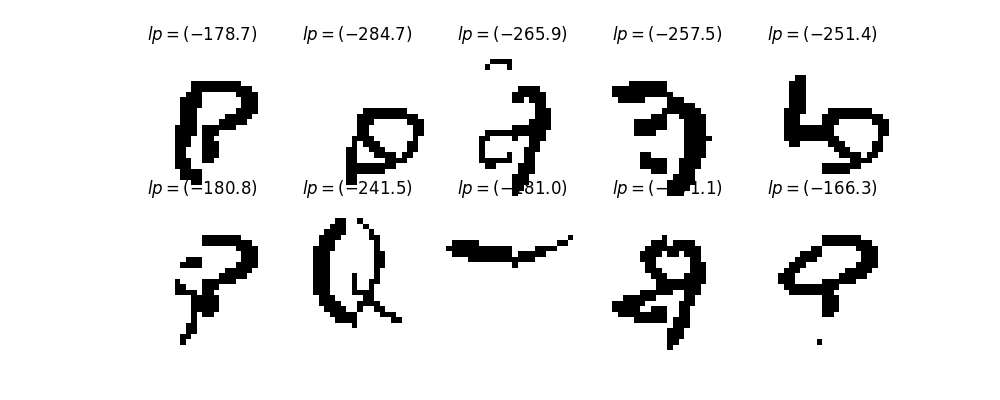
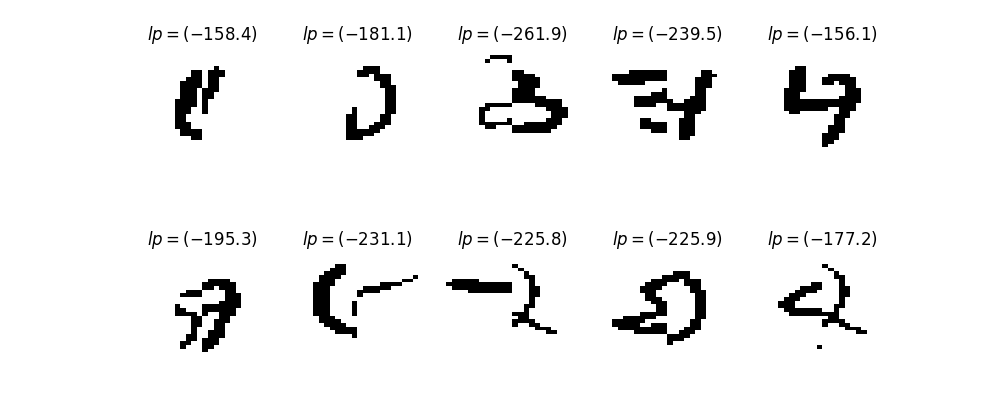
buggy vae

diff --git a/assignment_3/a3_vae_template.py b/assignment_3/a3_vae_template.py
@@ -1,5 +1,9 @@
 import numpy as np
 import tensorflow as tf
+import matplotlib
+
+matplotlib.use('agg')
+from matplotlib import pyplot as plt
 
 
 def load_mnist_images(binarize=True):
@@ -14,39 +18,156 @@ def load_mnist_images(binarize=True):
     x_train = mnist.train.images
     x_test = mnist.test.images
     if binarize:
-        x_train = (x_train>0.5).astype(x_train.dtype)
-        x_test = (x_test>0.5).astype(x_test.dtype)
+        x_train = (x_train > 0.5).astype(x_train.dtype)
+        x_test = (x_test > 0.5).astype(x_test.dtype)
     return x_train, x_test
 
 
+def plot(samples, save_path='figs/vae', fname=None, probs=None):
+    assert fname is not None
+
+    N = samples.shape[0]
+    _ensure_path_exists(save_path)
+
+    fig, axs = plt.subplots(2, N // 2, figsize=(2 * (N // 2), 2 * 2),
+                            gridspec_kw={'wspace': 0.0, 'hspace': 1.0})  # , squeeze=True)
+    axs = axs.ravel()
+
+    for i in range(N):
+        axs[i].imshow(samples[i], cmap='gray', aspect='auto')
+        axs[i].axis('off')
+
+        if probs is not None:
+            axs[i].set_title('$lp=({:.1f})$'.format(probs[i]))
+
+    # Store figure.
+    plt.show()
+    fig.savefig(save_path + '/{}.png'.format(fname))
+    # plt.tight_layout()
+    plt.close()
+
+
+def init_summary_writer(sess, save_path):
+    # Optional to use.
+    _ensure_path_exists(save_path)
+    return tf.summary.FileWriter(save_path, sess.graph)
+
+
+def _ensure_path_exists(path):
+    if not tf.gfile.Exists(path):
+        tf.gfile.MakeDirs(path)
+
+
 class VariationalAutoencoder(object):
+    def __init__(self, encoder_hidden_sizes, decoder_hidden_sizes, input_dim, z_dim, activation_fn, initializer):
+        self._encoder_hidden_sizes = encoder_hidden_sizes
+        self._decoder_hidden_sizes = decoder_hidden_sizes
+        self._activation_fn = activation_fn
+        self.kernel_initializer = initializer
+        self._input_dim = self._output_dim = input_dim
+        self._z_dim = z_dim
+
+    def Q(self, x):
+        """
+        Encodes data input x to hidden states
+        :param x: float tensor, [batch_size, input_dim]
+        :return: tuple of encoded variational params, (mu [batch_size, z_dim], sigma^2 [batch_size, z_dim])
+        """
+        with tf.variable_scope('encoder', reuse=tf.AUTO_REUSE):
+            for i, dim in enumerate(self._encoder_hidden_sizes):
+                x = tf.layers.dense(inputs=x, units=dim, activation=self._activation_fn,
+                                    kernel_initializer=self.kernel_initializer, name='enc_fc_{}'.format(i))
+
+            # Encode
+            mu = tf.layers.dense(inputs=x, units=self._z_dim, activation=tf.identity,
+                                 kernel_initializer=self.kernel_initializer, name='enc_mu')
+
+            # softplus activation: ensure positivity
+            var = tf.layers.dense(inputs=x, units=self._z_dim, activation=tf.exp,
+                                     kernel_initializer=self.kernel_initializer, name='enc_sigma')
+        return mu, var
+
+    def P(self, z):
+        """
+        Decodes the data given latent codes
+        :param z: latennt code, float tensor [batch_size, z_dim]
+        :return: log p(X=1|Z) [batch_size, input_dim]
+        """
+        with tf.variable_scope('decoder', reuse=tf.AUTO_REUSE):
+            for i, dim in enumerate(self._decoder_hidden_sizes):
+                z = tf.layers.dense(inputs=z, units=dim, activation=self._activation_fn,
+                                    kernel_initializer=self.kernel_initializer, name='dec_fc_{}'.format(i))
+
+            # Decode
+            log_p_x = tf.layers.dense(inputs=z, units=self._input_dim, activation=tf.log_sigmoid,
+                                      kernel_initializer=self.kernel_initializer, name='decoder')
+        return log_p_x
 
     def lower_bound(self, x):
         """
         :param x: A (n_samples, n_dim) array of data points
         :return: A (n_samples, ) array of the lower-bound on the log-probability of each data point
         """
-        raise NotImplementedError()
+        mu, var = self.Q(x)  # [batch_size, z_dim]
+        # logvar = tf.Print(logvar, [tf.identity(logvar)], 'logvar is =')
+        # var = tf.exp(1e-5 + logvar)
+        # sigma = tf.exp(logvar / 2)
+        sigma = tf.sqrt(var)
+        var = tf.Print(var, [tf.identity(var), tf.identity(sigma)], 'var, sigma =')
+        mu = tf.Print(mu, [tf.identity(mu)], 'mu =')
 
+        # Reparameterization trick, num samples = 1
+        epsilon = tf.random_normal(shape=tf.shape(var), dtype=tf.float32)
+        z = mu + epsilon * sigma  # [batch_size, z_dim]
+
+        # rec_loss = tf.reduce_sum(x * tf.log(x_hat) + (1 - x) * tf.log(1 - x_hat), 1)
+        # kl_loss = 0.5 * tf.reduce_sum(1 + z_log_var - tf.square(z_mean) - tf.exp(z_log_var), 1)
+
+        # Complexity cost
+        kl = 0.5 * tf.reduce_sum(tf.log(var) - var - tf.pow(mu, 2) + 1, axis=-1)  # [N]
+        tf.summary.scalar('Mean KL Divergence', tf.reduce_mean(kl))
+
+        # Reconstruction
+        log_x_pred = self.P(z)  # [batch_size, input_dim]
+        thetas = tf.exp(log_x_pred)
+        # thetas = tf.clip_by_value(thetas, 1e-7, 1 - 1e-7)
+        recon_loss = tf.reduce_sum(x * log_x_pred + (1 - x) * tf.log(1 - thetas), axis=-1)  # [N]
+        tf.summary.scalar('Mean Reconstruction Error', tf.reduce_mean(recon_loss))
+
+        # ELBO
+        elbo = kl + recon_loss
+        mean_eblo = tf.reduce_mean(elbo)
+        tf.summary.scalar('Mean ELBO', mean_eblo)
+
+        return mean_eblo
 
     def mean_x_given_z(self, z):
         """
         :param z: A (n_samples, n_dim_z) tensor containing a set of latent data points (n_samples, n_dim_z)
         :return: A (n_samples, n_dim_x) tensor containing the mean of p(X|Z=z) for each of the given points
         """
-        raise NotImplementedError()
+        return tf.exp(self.P(z))
 
-    def sample(self, n_samples):
+    def sample(self, n_samples, sample_x=False):
         """
         :param n_samples: Generate N samples from your model
         :return: A (n_samples, n_dim) array where n_dim is the dimenionality of your input
         """
-        raise NotImplementedError()
+        z_samples = tf.random_normal(shape=(n_samples, self._z_dim), dtype=tf.float32)  # [n_samples, z_dim]
+        thetas = self.mean_x_given_z(z_samples)  # [n_samples, input_dim]
+
+        # Evaluates p(X=1|z)
+        if not sample_x:
+            return tf.reshape(thetas, shape=(-1, 28, 28))
+
+        return tf.reshape(tf.distributions.Bernoulli(probs=thetas).sample(), shape=(-1, 28, 28))
 
 
-def train_vae_on_mnist(z_dim=2, kernel_initializer='glorot_uniform', optimizer = 'adam',  learning_rate=0.001, n_epochs=4000,
-        test_every=100, minibatch_size=100, encoder_hidden_sizes=[200, 200], decoder_hidden_sizes=[200, 200],
-        hidden_activation='relu', plot_grid_size=10, plot_n_samples = 20):
+def train_vae_on_mnist(z_dim=2, kernel_initializer='glorot_uniform', optimizer='adam', learning_rate=0.001,
+                       n_epochs=2,
+                       test_every=100, minibatch_size=100, encoder_hidden_sizes=[200, 200],
+                       decoder_hidden_sizes=[200, 200],
+                       hidden_activation='relu', plot_grid_size=10, plot_n_samples=20):
     """
     Train a variational autoencoder on MNIST and plot the results.
 
@@ -66,23 +187,87 @@ def train_vae_on_mnist(z_dim=2, kernel_initializer='glorot_uniform', optimizer =
 
     # Get Data
     x_train, x_test = load_mnist_images(binarize=True)
-    train_iterator = tf.data.Dataset.from_tensor_slices(x_train).repeat().batch(minibatch_size).make_initializable_iterator()
+    x_train, x_test = 1 - x_train, 1 - x_test[:1000]
+    train_iterator = tf.data.Dataset.from_tensor_slices(x_train).repeat().batch(
+        minibatch_size).make_initializable_iterator()
     n_samples, n_dims = x_train.shape
     x_minibatch = train_iterator.get_next()  # Get symbolic data, target tensors
 
     # Build Model
-    raise NotImplementedError("Build the model here")
+    vae = VariationalAutoencoder(input_dim=n_dims, z_dim=z_dim,
+                                 initializer=tf.contrib.layers.xavier_initializer(uniform=True),
+                                 activation_fn=tf.nn.relu,
+                                 decoder_hidden_sizes=decoder_hidden_sizes, encoder_hidden_sizes=encoder_hidden_sizes)
 
+    # Placeholder
+    input_data = tf.placeholder(dtype=tf.float32, shape=[None, n_dims])
+    std3 = np.linspace(-3, 3, plot_grid_size)
+    grid1, grid2 = np.meshgrid(std3, std3)
+    manifold = np.empty((plot_grid_size * 28, plot_grid_size * 28))
+
+    # Build the model
+    elbo_op = vae.lower_bound(input_data)
+    loss_op = - elbo_op
+
+    # Utility vars and ops
+    global_step = tf.Variable(0, trainable=False, name='global_step')
+    optimizer = tf.train.AdamOptimizer(learning_rate=learning_rate)
+    grads_and_vars = optimizer.compute_gradients(loss_op)
+    grads, variables = zip(*grads_and_vars)
+    grads_clipped, _ = tf.clip_by_global_norm(grads, clip_norm=10.)
+    train_op = optimizer.apply_gradients(zip(grads_clipped, variables),
+                                         global_step=global_step)
+    # train_op = optimizer.minimize(loss_op, global_step=global_step)
+    summary_op = tf.summary.merge_all()
+
+    # Sampling
+    samples_op = vae.sample(n_samples=plot_n_samples, sample_x=True)
+    mean_x_given_z_op = vae.sample(n_samples=plot_n_samples, sample_x=False)
 
     with tf.Session() as sess:
+
+        train_log_writer = init_summary_writer(sess, './summaries/vae/train')
+        test_log_writer = init_summary_writer(sess, './summaries/vae/test')
+
         sess.run(train_iterator.initializer)  # Initialize the variables of the data-loader.
         sess.run(tf.global_variables_initializer())  # Initialize the model parameters.
-        n_steps = (n_epochs * n_samples)/minibatch_size
-        for i in xrange(n_steps):
-            if i%test_every==0:
-                raise NotImplementedError('INSERT CODE TO RUN TEST AND RECORD LOG-PROB PERIODICALLY')
+        n_steps = (n_epochs * n_samples) // minibatch_size
 
-            raise NotImplementedError('CALL TRAINING FUNCTION HERE')
+        for i in range(n_steps):
+            # Test
+            if i % test_every == 0:
+                summary, test_loss, samples, mean_samples = sess.run(feed_dict={input_data: x_test},
+                                                                     fetches=[summary_op, loss_op, samples_op,
+                                                                              mean_x_given_z_op])
+                print('{}/{}: Test Loss: {}'.format(i, n_steps, test_loss))
+                plot(samples, fname='samples_{}'.format(i))
+                plot(mean_samples, fname='mean_x_cond_z_{}'.format(i))
+                test_log_writer.add_summary(summary, i)
+
+            # Train
+            summary, train_loss, _ = sess.run(feed_dict={input_data: sess.run(x_minibatch)},
+                                              fetches=[summary_op, loss_op, train_op])
+            print('{}/{}: Train Loss: {}'.format(i, n_steps, train_loss))
+            train_log_writer.add_summary(summary, i)
+
+        # Manifold
+        for i in range(plot_grid_size):
+            for j in range(plot_grid_size):
+                # Get linspaced values in grid at i,j
+                z = np.array([grid1[i, j], grid2[i, j]], dtype=np.float32)
+
+                # Decode image from z sample
+                img = sess.run(fetches=[vae.mean_x_given_z(z)])
+                print(img.shape)
+                # save
+                manifold[28 * (i):28 * (i + 1), 28 * (j):28 * (j + 1)] = np.reshape(img, (28, 28))
+
+        plt.figure(figsize=(8, 8))
+        plt.axis('off')
+        plt.imshow(manifold, cmap='gray')
+        plt.title('Manifold')
+        plt.savefig('./figs/vae/manifold.png')
+        plt.close()
 
 
 if __name__ == '__main__':

diff --git a/assignment_3/a3_simple_template.py b/assignment_3/a3_simple_template.py
@@ -137,7 +137,6 @@ class NaiveBayesModel(object):
         :param x: An (n_samples, n_dims) tensor
         :return: An (n_samples, n_categories) tensor  p_x_given_z where result[i, j] indicates p(X=x[i] | Z=z[j])
         """
-        N = tf.shape(x)[0]
         X = tf.tile(tf.expand_dims(x, axis=1), multiples=(1, self._K, 1))  # [N,K,D]
         nkd_logp = self._bernoulli.log_prob(value=X, name='logp_x_cond_z')
         return tf.reduce_sum(nkd_logp, axis=-1)  # [N, K]
